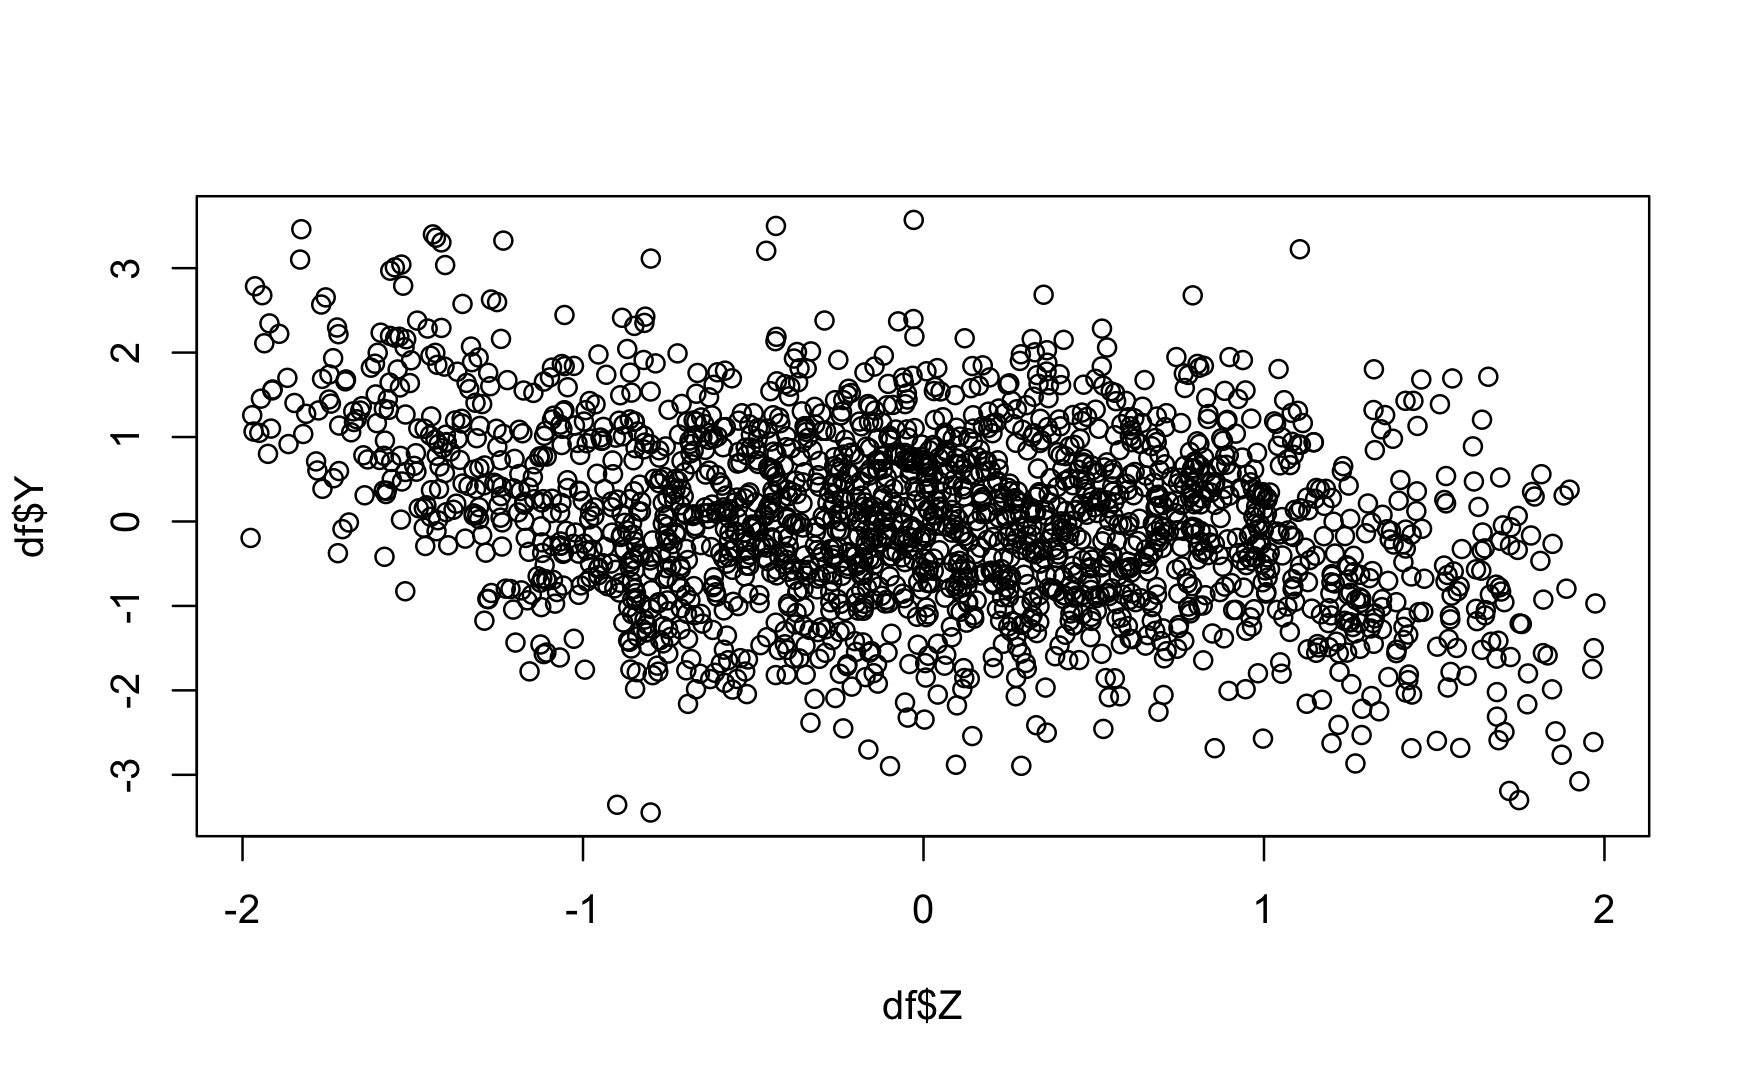
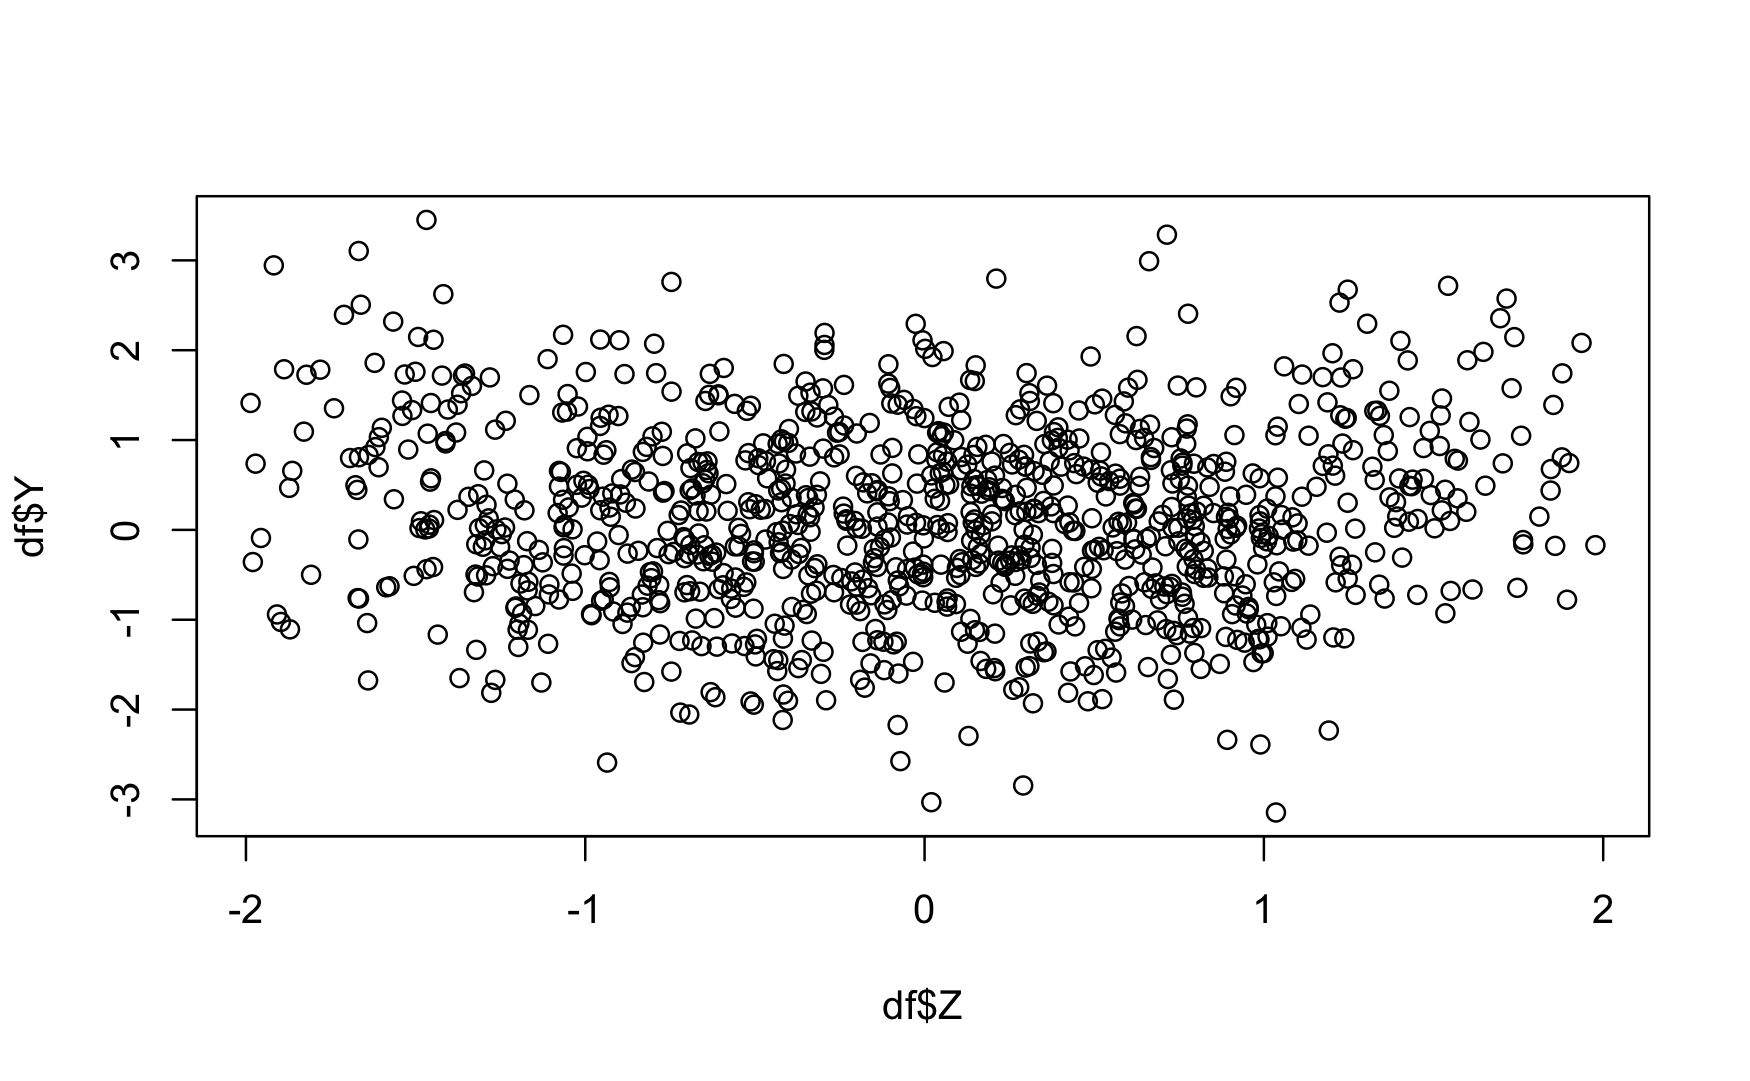
Revised plots in demo

diff --git a/README.md b/README.md
@@ -65,7 +65,7 @@ df <- linear.quantile.dgp()
 head(df)
  ```
  
- If we plot `Y` against `Z`, we can see that at the tails of `Z`, there is a negative association but otherwise there doesn't appear to be a strong relationship. 
+ If we plot `Y` against `Z`, we can see that at the upper tail of `Z`, there is a positive association but otherwise there doesn't appear to be a strong relationship throughout the median area. 
  
  ![Y plotted against Z!](/demo/dgp-association.png "Example of DGP associations.")
 
@@ -76,7 +76,10 @@ g <- igraph::make_graph(~ Z--Y, Z--X, Y--W, X--W)
 op <- par(mar=c(1,1,1,1))
 igraph::plot.igraph(g,layout=igraph::layout_in_circle,vertex.size=30,vertex.color="lightblue")
  ```
-But note that based on the above plots that variables may not be related at all quantiles the same way! For example, comparing `Y` and `Z` above, we see that at the median of both variables we would not expect to see an edge between the two as their relationship appears noisy at best. However at the upper and lower tails of Z there is a negative association between the two. 
+  ![DGP Graph!](/demo/dgp.png "Data generating process.")
+ 
+ 
+But note that based on the above plots that variables may not be related at all quantiles the same way! For example, comparing `Y` and `Z` above, we see that at the median of both variables we would not expect to see an edge between the two as their relationship appears noisy at best. However at the upper tail of Z there is a positive association between the two. 
 
 
 ## Running QGM and analyzing results
